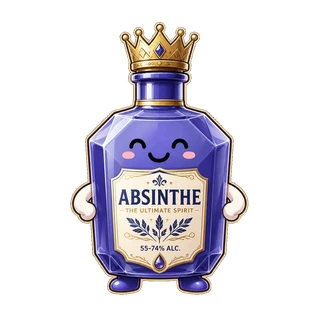
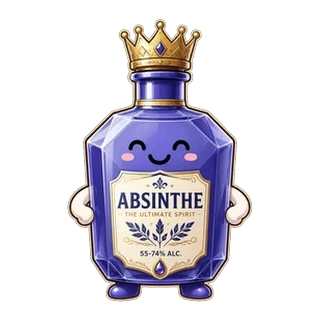
Normalize tier mascot sizes to a consistent scale
Each source image had different amounts of padding around the
character, so mascots rendered at visibly different sizes despite
using the same <TierMascot :size> prop (Vodka's content only filled
72% of its canvas vs ~90% for the others). Cropped each to its alpha
bounding box and re-centered at a matching content height (288px) in
the 320x320 canvas.

Changed region(s): [[0.1875, 0.0625, 0.8125, 0.9688]]

diff --git a/.agents/active.md b/.agents/active.md
@@ -1,21 +1,25 @@
 # Active Context
 
 ## Current Task
-- none
+- User needs to run `npx wrangler deploy` once more to push the just-normalized mascot sizes
 
 ## Done Last Session
-- New Vodka tier mascot artwork committed and pushed (414ae80) — background removed via flood-fill script, resized to 320x320, saved as vodka.webp
-- Fixed cramped mobile header: on screens <640px, the "ADMIN LOGIN" button in
-  AppHeader.vue collapses to an icon-only lock button (text hidden below
-  `sm:`) instead of full text, freeing horizontal space for the 5 nav links
-  + language switcher that were all fighting for the same row
-- Pending changes ready to deploy: rainbow Absinthe tier (4de6f11), new
-  Vodka mascot (414ae80), mobile header fix (not yet committed — next step)
+- Fixed the wrangler.jsonc worker-name mismatch (cfb22a8) — user redeployed
+  successfully afterward and confirmed rainbow Absinthe is now live
+- User then noticed mascot sizes were visibly inconsistent across the 8
+  tiers (screenshot showed Vodka/Absinthe noticeably smaller than the
+  other 6). Root cause: each source image had different amounts of
+  transparent padding around the character within its 320x320 canvas —
+  measured via alpha-channel bounding box (`Image.getbbox()`), Vodka's
+  content only filled 72% of canvas height vs ~90% for the rest.
+  Normalized all 8 mascots (milk/beer/highball/wine/soju/whisky/vodka/absinthe)
+  to the same content height (288px, centered) so they render at visually
+  matching sizes everywhere `<TierMascot>` is used.
+- Frontend rebuilt clean (JS bundle hash unchanged, only image bytes changed)
 
 ## Next Steps
-- Commit + push the AppHeader.vue mobile fix
-- User deploys to Cloudflare Workers when ready: `export CLOUDFLARE_API_TOKEN="your-token" && cd "/Users/tabby/For work/niddeaw_bmt" && npx wrangler deploy`
-- No browser tool available in this environment to visually confirm the mobile fix — worth a quick look on a real phone once deployed
+- Commit + push the normalized mascot images
+- User runs `npx wrangler deploy` again to push this update
 
 ## Blockers
 - none
@@ -24,6 +28,5 @@
 - Claude Code — 2026-08-04
 
 ## Checkpoint (auto)
-- 02:21 — edited active.md
-- 02:21 — edited AppHeader.vue
-- 02:18 — edited active.md
+- 02:46 — edited active.md
+- 02:43 — edited active.md
